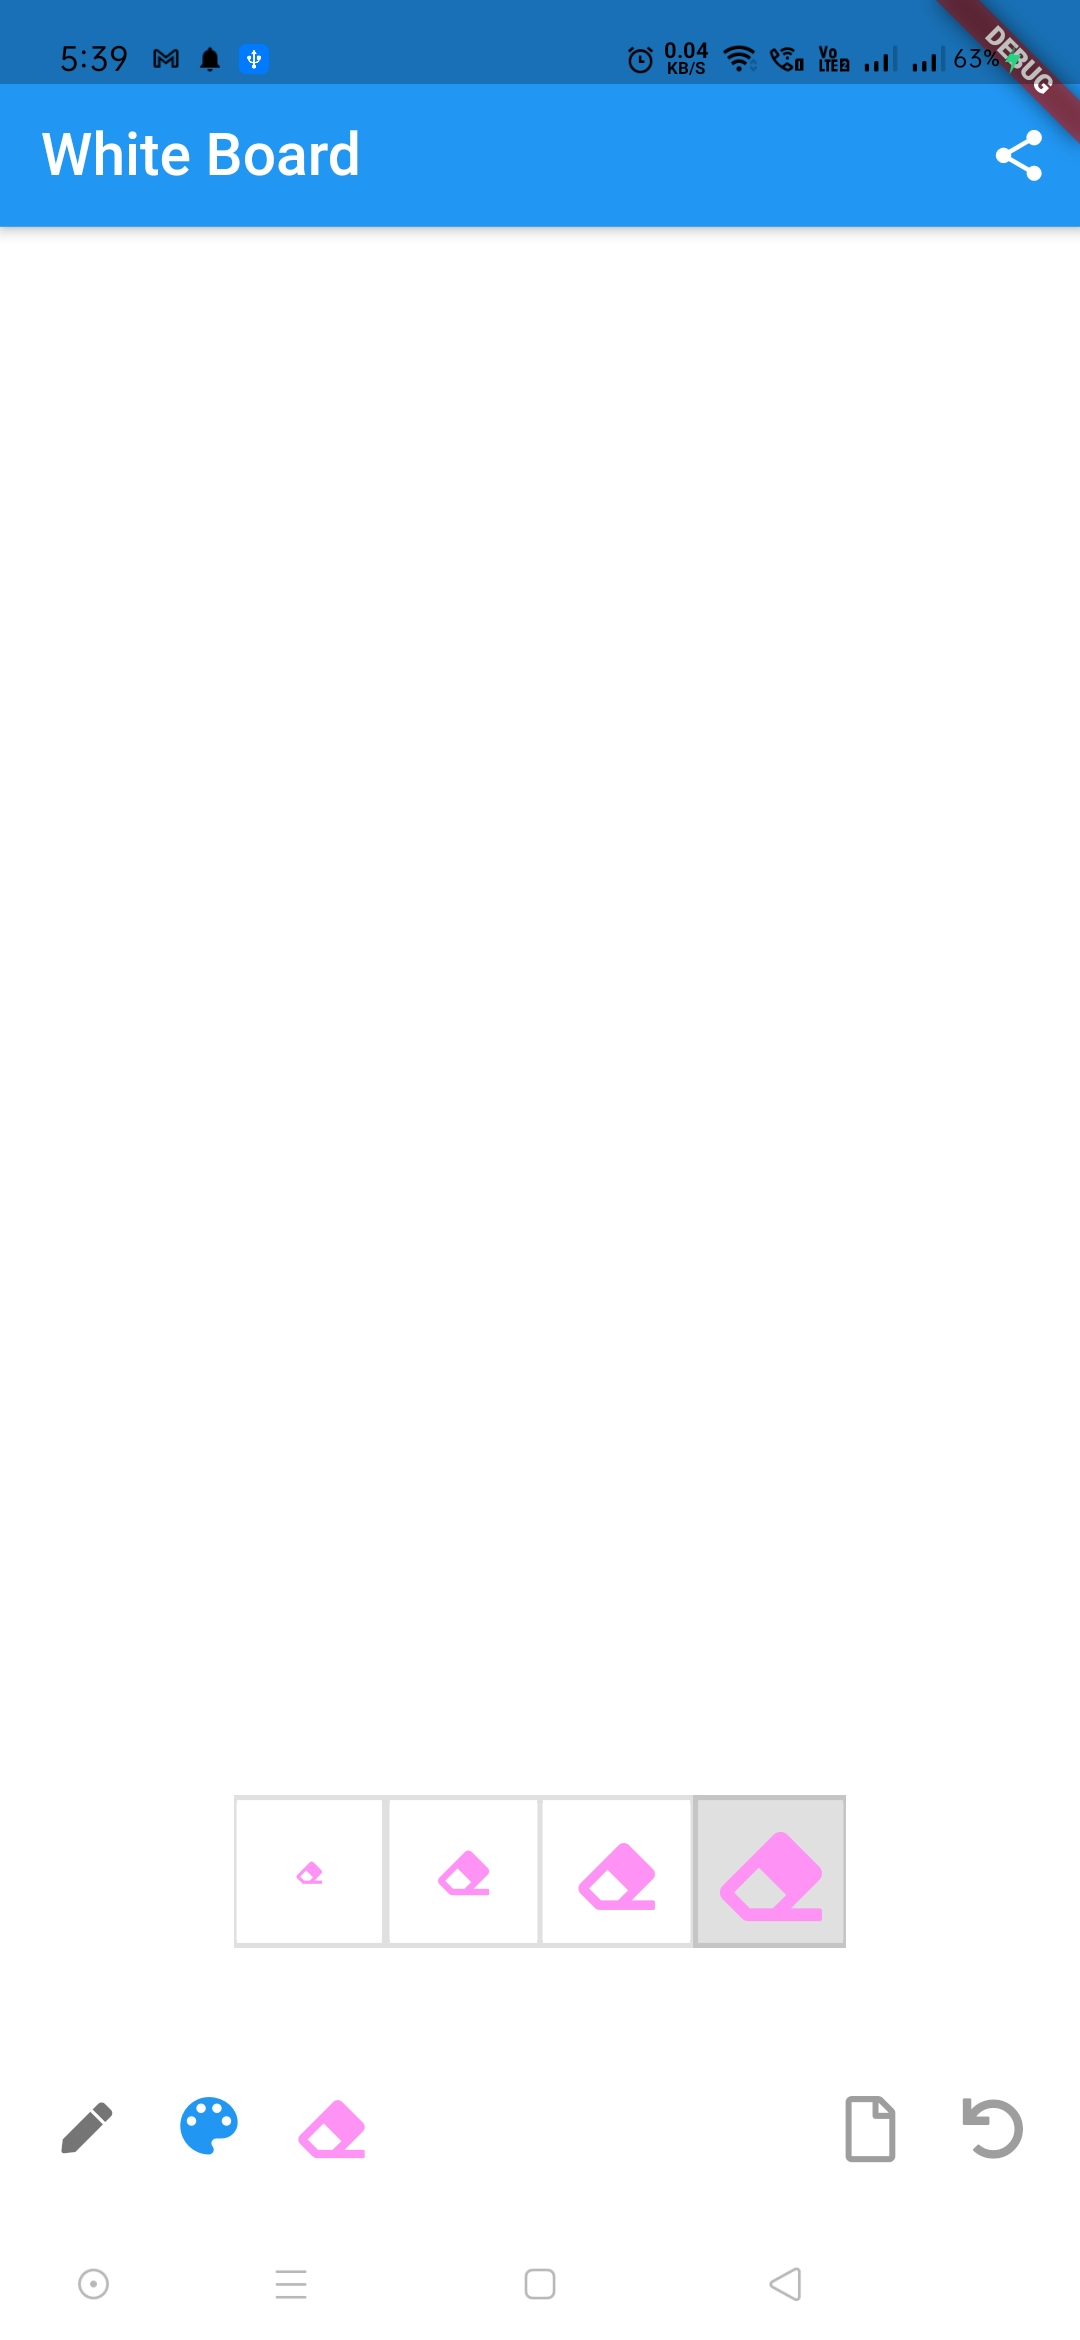
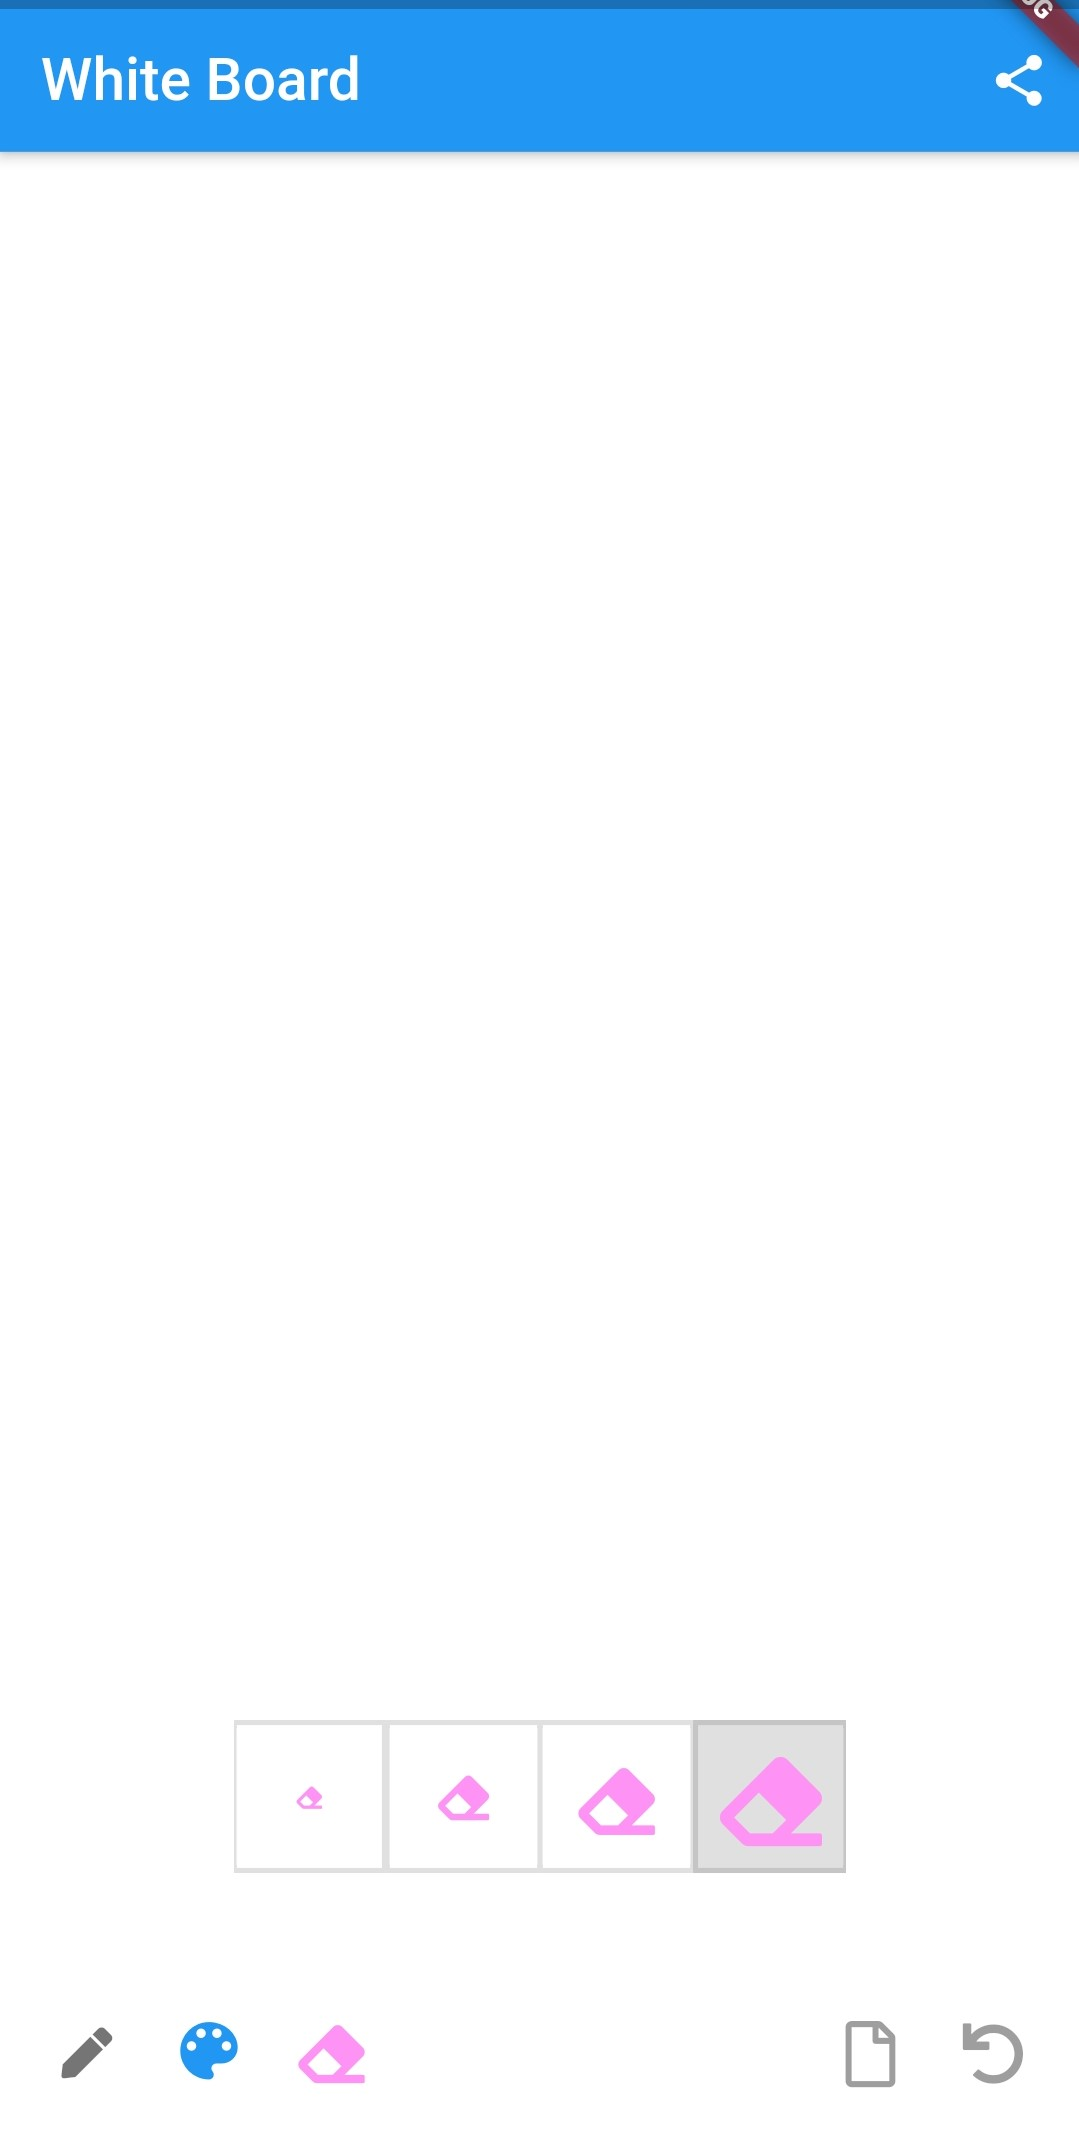
Readme.md

diff --git a/README.md b/README.md
@@ -5,4 +5,4 @@
 ![](https://github.com/chirag-goel360/WhiteBoard/blob/main/website.png)
 
 ### Android
-<img src="https://github.com/chirag-goel360/WhiteBoard/blob/main/android.jpg" width="800" height="1000">
+![](https://github.com/chirag-goel360/WhiteBoard/blob/main/android.jpg)
